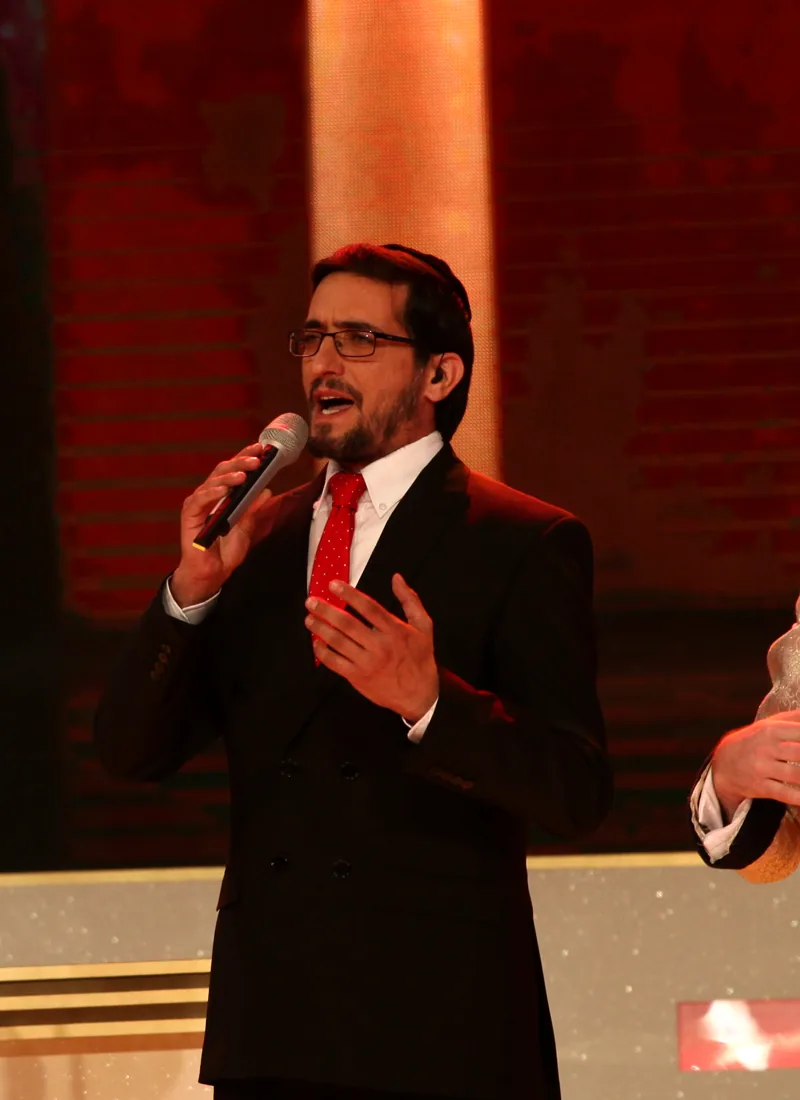
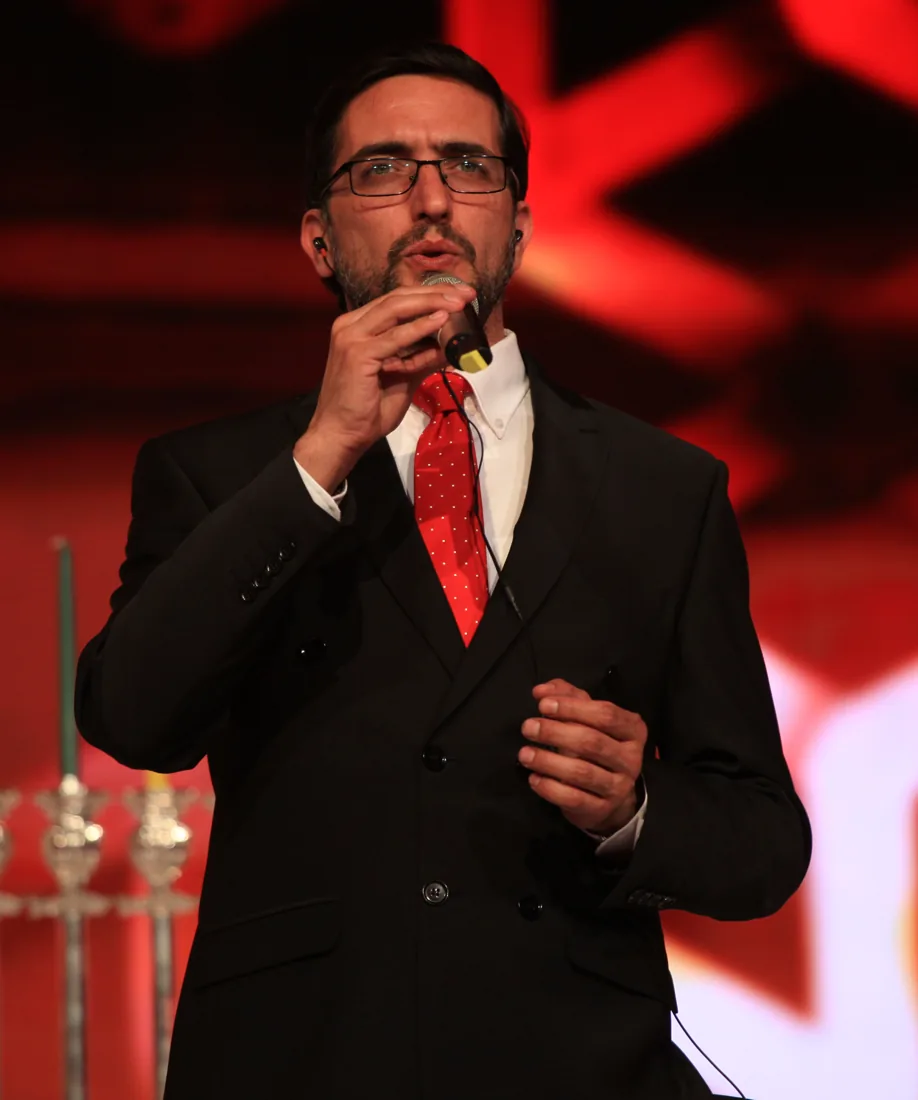
Cantor: red-stage solo portraits (hero + gallery)
Claude-Session: https://claude.ai/code/session_01Nz2K6u12dxeKgnkHZhsHiW

diff --git a/cantor/index.html b/cantor/index.html
@@ -8,7 +8,7 @@
 <main>
 <div class="hero"><div><p class="kicker">ארכיון חזנות · 2000–2018</p><h1>דובל׳ה הלר</h1>
 <p class="lead">שמונה-עשרה שנה לפני העמוד ועל במות הקונצרטים, בארץ ובעולם. בריטון דרמטי, תלמידו של החזן משה שטרן.</p></div>
-<img src="/assets/hero-red.webp" width="800" height="1100" class="hero-img" alt="דוב הלר תוקע בשופר, ירושלים ברקע"></div>
+<img src="/assets/hero-red.webp" width="922" height="1100" class="hero-img" alt="דוב הלר תוקע בשופר, ירושלים ברקע"></div>
 
 <section id="story" class="two"><div><h2>הסיפור</h2>
 <p>גדלתי בירושלים, בבית חסידי שבו כולם שרים. סולן לא הייתי, ולא דמיינתי שאעסוק במוזיקה. אחרי החתונה פתחתי חנות מחשבים בירושלים.</p>
@@ -40,7 +40,8 @@
 </div></section>
 
 <section id="moments"><h2>מהבמה</h2><div class="gallery">
-<img src="/assets/stage-mic.webp" width="900" height="2077" alt="דוב הלר שר על הבמה" loading="lazy">
+<img src="/assets/red-sing-1.webp" width="742" height="900" alt="דוב הלר שר על הבמה" loading="lazy">
+<img src="/assets/red-sing-2.webp" width="692" height="900" alt="דוב הלר שר, רקע אדום" loading="lazy">
 <img src="/assets/backstage-klezmer.webp" width="900" height="2122" alt="דוב הלר שר מאחורי הקלעים, עם אקורדיון וכינור" loading="lazy">
 <img src="/assets/dov-tallit.webp" width="485" height="1200" alt="דוב הלר בטלית ובשטריימל" loading="lazy">
 </div></section>

diff --git a/cantor/en/index.html b/cantor/en/index.html
@@ -8,7 +8,7 @@
 <main>
 <div class="hero"><div><p class="kicker">CANTORIAL ARCHIVE · 2000–2018</p><h1>Cantor Dov Heller</h1>
 <p class="lead">Eighteen years before the ark and on concert stages in Israel and abroad. Dramatic baritone, student of Cantor Moshe Stern.</p></div>
-<img src="/assets/hero-red.webp" width="800" height="1100" class="hero-img" alt="Dov Heller sounding the shofar above Jerusalem"></div>
+<img src="/assets/hero-red.webp" width="922" height="1100" class="hero-img" alt="Dov Heller sounding the shofar above Jerusalem"></div>
 <section id="story" class="two"><div><h2>The story</h2>
 <p>I grew up in a Hasidic, musical home in Jerusalem, and after my wedding I opened a computer store. In 2000 a customer walked in: Cantor Moshe Stern. He heard the voice, taught me the High Holiday services for a post in Stuttgart, and wrote pieces I premiered.</p>
 <p>After a concert with Stern and Cantor Ben Zion Miller at Beth El in New York, Miller recommended me to Shomrim Laboker in Montreal, where I served as head cantor for about three years. Back in Israel from 2005: High Holidays in Migdal HaEmek, many Shabbatot at the Jerusalem Great Synagogue, and stages in Moscow and St. Petersburg.</p>

diff --git a/cantor/style.css b/cantor/style.css
@@ -35,6 +35,6 @@ footer{border-top:1px solid var(--line);padding:2rem 1.2rem;text-align:center;co
 #voice blockquote{font-size:1.05rem}
 @media(min-width:760px){.cards{grid-template-columns:repeat(2,1fr)}}
 .card.has-img img{border-radius:10px;margin:-.4rem 0 .8rem;aspect-ratio:3/2;object-fit:cover;width:100%}
-.gallery{display:grid;grid-template-columns:repeat(3,1fr);gap:.8rem}
+.gallery{display:grid;grid-template-columns:repeat(2,1fr);gap:.8rem}
 .gallery img{border-radius:12px;aspect-ratio:3/4;object-fit:cover;object-position:center 25%;width:100%}
 .hero img.hero-img{aspect-ratio:4/5;object-position:center 20%;max-height:640px;width:100%}
